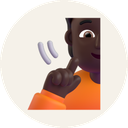
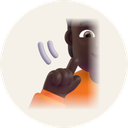
fix(profilbild): Dialog beginnt oben, keine Schnittkanten, kein lazy
Befunde aus der Abnahme von PR 458:
- Der Dialog oeffnet mit dem Fokus auf sich selbst statt auf dem gewaehlten
  Bild; auf 390 px scrollte er sonst nach unten. Tab fuehrt zum gewaehlten
  Radioknopf. Kopf und Mobil-Menue oeffnen ihn ueber profilbildDialogOeffnen.
- Die Vorlage der gehoerlosen Person ist in allen Fluent-Fassungen rechts,
  unten und oben gerade abgeschnitten; dort laeuft sie jetzt weich in den
  Sand aus. Alle Bilder bekommen eine Kreismaske, nichts ragt mehr ueber den
  Kreis (betraf ausserdem den Setzling).
- loading="lazy" entfernt: im Dialog laden ohnehin alle Bilder sofort.

Refs #437

Changed region(s): [[0.2188, 0.125, 0.8125, 0.875]]

diff --git a/mvp/frontend/gutgesagt-frontend/src/app/shared/profilbild/profilbild-dialog.component.spec.ts b/mvp/frontend/gutgesagt-frontend/src/app/shared/profilbild/profilbild-dialog.component.spec.ts
@@ -1,7 +1,7 @@
 import { ComponentFixture, TestBed } from '@angular/core/testing';
-import { MatDialogRef } from '@angular/material/dialog';
+import { MatDialog, MatDialogRef } from '@angular/material/dialog';
 import { provideNoopAnimations } from '@angular/platform-browser/animations';
-import { ProfilbildDialogComponent } from './profilbild-dialog.component';
+import { ProfilbildDialogComponent, profilbildDialogOeffnen } from './profilbild-dialog.component';
 import { INITIALEN, PROFILBILD_SCHLUESSEL, ProfilbildService } from '../../services/profilbild.service';
 
 describe('ProfilbildDialogComponent', () => {
@@ -47,7 +47,6 @@ describe('ProfilbildDialogComponent', () => {
     expect(optionen().length).toBe(service.auswahl().length);
     for (const bild of Array.from(element().querySelectorAll('.profilbild-option img'))) {
       expect(bild.getAttribute('alt')?.length).toBeGreaterThan(3);
-      expect(bild.getAttribute('loading')).toBe('lazy');
     }
   });
 
@@ -120,5 +119,53 @@ describe('ProfilbildDialogComponent', () => {
     knopf('Übernehmen')!.click();
 
     expect(service.gewaehlt()).toBe(service.auswahl()[2].id);
+  });
+});
+
+describe('ProfilbildDialogComponent beim Oeffnen (Abnahme PR 458)', () => {
+  let dialog: MatDialog;
+  let service: ProfilbildService;
+
+  beforeEach(async () => {
+    localStorage.removeItem(PROFILBILD_SCHLUESSEL);
+    await TestBed.configureTestingModule({ providers: [provideNoopAnimations()] }).compileComponents();
+    dialog = TestBed.inject(MatDialog);
+    service = TestBed.inject(ProfilbildService);
+    service.setzePerson({ isAuthenticated: true, userId: 'user-001', userName: 'Test User', claims: {} });
+    // Weit unten im Raster vorgewaehlt: frueher sprang der Dialog dorthin.
+    service.waehlen(service.auswahl()[service.auswahl().length - 1].id);
+  });
+
+  afterEach(() => {
+    dialog.closeAll();
+    localStorage.removeItem(PROFILBILD_SCHLUESSEL);
+  });
+
+  it('beginnt oben mit Ueberschrift, Initialen und Menschen, ohne zum gewaehlten Bild zu scrollen', async () => {
+    // Hoehe wie bei 390 px Breite: das Raster passt nicht ganz hinein.
+    const ref = profilbildDialogOeffnen(dialog, { height: '600px', maxHeight: '600px' });
+    await new Promise((fertig) => setTimeout(fertig, 50));
+
+    const inhalt = document.querySelector('.mat-mdc-dialog-content') as HTMLElement;
+    expect(inhalt.scrollHeight).toBeGreaterThan(inhalt.clientHeight);
+    expect(inhalt.scrollTop).toBe(0);
+
+    const fokus = document.activeElement as HTMLElement;
+    expect(fokus.closest('.profilbild-option')).toBeNull();
+    const ganzOben = inhalt.getBoundingClientRect().top;
+    const initialen = document.querySelector('.profilbild-option') as HTMLElement;
+    expect(initialen.getBoundingClientRect().top - ganzOben).toBeLessThan(150);
+    ref.close();
+  });
+
+  it('fuehrt mit Tab zum gewaehlten Bild, auch wenn es weit unten steht', async () => {
+    profilbildDialogOeffnen(dialog, { height: '600px', maxHeight: '600px' });
+    await new Promise((fertig) => setTimeout(fertig, 50));
+
+    const radios = Array.from(document.querySelectorAll('.profilbild-radio')) as HTMLInputElement[];
+    const gewaehlt = radios.find((r) => r.checked)!;
+    expect(gewaehlt).toBe(radios[radios.length - 1]);
+    // Unter den Radioknoepfen einer Gruppe ist nur der gewaehlte per Tab erreichbar.
+    expect(radios.filter((r) => r.checked).length).toBe(1);
   });
 });

diff --git a/mvp/frontend/gutgesagt-frontend/src/app/shared/profilbild/profilbild-dialog.component.ts b/mvp/frontend/gutgesagt-frontend/src/app/shared/profilbild/profilbild-dialog.component.ts
@@ -1,6 +1,6 @@
 import { Component } from '@angular/core';
 import { CommonModule } from '@angular/common';
-import { MatDialogModule, MatDialogRef } from '@angular/material/dialog';
+import { MatDialog, MatDialogConfig, MatDialogModule, MatDialogRef } from '@angular/material/dialog';
 import { MatButtonModule } from '@angular/material/button';
 import { ProfilbildService } from '../../services/profilbild.service';
 
@@ -42,4 +42,22 @@ export class ProfilbildDialogComponent {
     this.profilbild.zuruecksetzen();
     this.dialogRef.close();
   }
+}
+
+/**
+ * Oeffnet den Dialog so, wie Kopf und Mobil-Menue ihn brauchen. Der Fokus liegt
+ * zuerst auf dem Dialog selbst, nicht auf dem gewaehlten Bild: sonst scrollte der
+ * Dialog auf schmalen Bildschirmen zu ihm und Ueberschrift und Initialen waeren
+ * weg. Tab fuehrt von dort zum gewaehlten Radioknopf.
+ */
+export function profilbildDialogOeffnen(
+  dialog: MatDialog,
+  konfig: MatDialogConfig = {}
+): MatDialogRef<ProfilbildDialogComponent> {
+  return dialog.open(ProfilbildDialogComponent, {
+    width: '560px',
+    maxWidth: '95vw',
+    autoFocus: 'dialog',
+    ...konfig,
+  });
 }

diff --git a/mvp/frontend/gutgesagt-frontend/src/app/app.component.ts b/mvp/frontend/gutgesagt-frontend/src/app/app.component.ts
@@ -19,7 +19,7 @@ import { ProfilbildService } from './services/profilbild.service';
 import { MatDialog } from '@angular/material/dialog';
 import { HelpDialogComponent } from './help-dialog/help-dialog.component';
 import { FeedbackDialogComponent } from './shared/feedback/feedback-dialog.component';
-import { ProfilbildDialogComponent } from './shared/profilbild/profilbild-dialog.component';
+import { profilbildDialogOeffnen } from './shared/profilbild/profilbild-dialog.component';
 import { FooterComponent } from "./footer/footer.component";
 import { MobileMenuComponent } from './shared/components/mobile-menu/mobile-menu';
 import { MobileHeaderComponent } from './shared/components/mobile-header/mobile-header.component';
@@ -164,10 +164,7 @@ export class AppComponent implements OnInit, OnDestroy {
   }
 
   openProfilbildDialog(): void {
-    this.dialog.open(ProfilbildDialogComponent, {
-      width: '560px',
-      maxWidth: '95vw',
-    });
+    profilbildDialogOeffnen(this.dialog);
   }
 
   openFeedbackDialog(): void {

diff --git a/mvp/frontend/gutgesagt-frontend/src/app/shared/profilbild/profilbild-dialog.component.html b/mvp/frontend/gutgesagt-frontend/src/app/shared/profilbild/profilbild-dialog.component.html
@@ -10,9 +10,8 @@
              class="profilbild-radio"
              [value]="option.id"
              [checked]="option.id === ausgewaehlt"
-             [attr.cdkFocusInitial]="option.id === ausgewaehlt ? '' : null"
              (change)="ausgewaehlt = option.id" />
-      <img [src]="option.url" [alt]="option.alt" width="64" height="64" loading="lazy" decoding="async" />
+      <img [src]="option.url" [alt]="option.alt" width="64" height="64" />
     </label>
   </div>
 

diff --git a/mvp/frontend/gutgesagt-frontend/scripts/profilbilder_holen.py b/mvp/frontend/gutgesagt-frontend/scripts/profilbilder_holen.py
@@ -7,7 +7,10 @@ und eine neue Fassung von Fluent Emoji aendert die Bilder nicht unbemerkt. Die
 Lizenz steht in public/avatars/FLUENT-EMOJI-LIZENZ.txt.
 
 Jedes Bild ist ein Kreis in Sand (#F5F1E9) mit dem Emoji in der Mitte, etwa
-72 % so breit wie der Kreis, als PNG mit 128 px Kantenlaenge. Die Reihenfolge
+72 % so breit wie der Kreis, als PNG mit 128 px Kantenlaenge; was ueber den Kreis
+hinausragt, schneidet der Kreis ab. Motive, die schon in der Vorlage gerade
+abgeschnitten sind (ANGESCHNITTEN), laufen an diesen Kanten weich in den Sand aus,
+statt mit einer harten Linie zu enden. Die Reihenfolge
 und die Dateinamen muessen zu BILDER in src/app/services/profilbild.service.ts
 passen; das prueft scripts/tests/test_profilbilder.py.
 
@@ -23,7 +26,7 @@ import sys
 import urllib.parse
 import urllib.request
 
-from PIL import Image, ImageDraw
+from PIL import Image, ImageChops, ImageDraw
 
 COMMIT = "1ffb34c752ecf5d402f04cfb4b392c77f57c54bc"
 QUELLE = f"https://raw.githubusercontent.com/microsoft/fluentui-emoji/{COMMIT}/"
@@ -115,6 +118,13 @@ MOTIVE = [
 
 BILDER = MENSCHEN + MOTIVE
 
+# Die Vorlage zeigt eine Nahaufnahme, rechts, unten und oben gerade abgeschnitten; das
+# gilt fuer alle Fassungen von "deaf" in Fluent Emoji, und ein Ausschnitt durch den
+# Kreis wuerde das Gesicht treffen. Anteil des Motivs, ueber den die Kante auslaeuft:
+ANGESCHNITTEN = {"mensch-16.png"}
+AUSLAUF = 0.18
+AUSLAUF_OBEN = 0.10
+
 
 def holen(pfad: str) -> Image.Image:
     url = QUELLE + urllib.parse.quote(pfad)
@@ -129,18 +139,48 @@ def _eingepasst(groesse: tuple[int, int], seite: int) -> tuple[int, int]:
     return max(1, round(breite * faktor)), max(1, round(hoehe * faktor))
 
 
-def profilbild(emoji: Image.Image) -> Image.Image:
+def _rampe(laenge: int, auslauf: int, ab_ende: bool) -> list[int]:
+    """Deckkraft 255 im Inneren, auf den letzten (oder ersten) `auslauf` Pixeln linear auf null."""
+    werte = [255] * laenge
+    for i in range(auslauf):
+        werte[laenge - 1 - i if ab_ende else i] = round(255 * i / auslauf)
+    return werte
+
+
+def _auslaufen(emoji: Image.Image) -> Image.Image:
+    """Rechts, unten und oben laeuft das Motiv in den Grund aus; links bleibt es."""
+    breite, hoehe = emoji.size
+    rechts = _rampe(breite, max(1, round(breite * AUSLAUF)), ab_ende=True)
+    unten = _rampe(hoehe, max(1, round(hoehe * AUSLAUF)), ab_ende=True)
+    oben = _rampe(hoehe, max(1, round(hoehe * AUSLAUF_OBEN)), ab_ende=False)
+    verlauf = Image.new("L", (breite, hoehe))
+    verlauf.putdata(
+        [
+            rechts[x] * unten[y] * oben[y] // (255 * 255)
+            for y in range(hoehe)
+            for x in range(breite)
+        ]
+    )
+    emoji.putalpha(ImageChops.multiply(emoji.getchannel("A"), verlauf))
+    return emoji
+
+
+def profilbild(emoji: Image.Image, angeschnitten: bool = False) -> Image.Image:
     # Viermal so gross zeichnen und dann verkleinern: so wird der Kreisrand glatt.
     gross = KANTE * 4
-    bild = Image.new("RGBA", (gross, gross), (0, 0, 0, 0))
-    ImageDraw.Draw(bild).ellipse((0, 0, gross - 1, gross - 1), fill=SAND)
+    kreis = Image.new("L", (gross, gross), 0)
+    ImageDraw.Draw(kreis).ellipse((0, 0, gross - 1, gross - 1), fill=255)
+    bild = Image.new("RGBA", (gross, gross), SAND)
     # Die Quellbilder haben einen transparenten Rand; 72 % gelten fuer das Motiv selbst.
     emoji = emoji.crop(emoji.getchannel("A").getbbox())
     seite = round(gross * ANTEIL)
     emoji = emoji.resize(_eingepasst(emoji.size, seite), Image.Resampling.LANCZOS)
+    if angeschnitten:
+        emoji = _auslaufen(emoji)
     links = (gross - emoji.width) // 2
     oben = (gross - emoji.height) // 2
     bild.alpha_composite(emoji, (links, oben))
+    bild.putalpha(kreis)
     return bild.resize((KANTE, KANTE), Image.Resampling.LANCZOS)
 
 
@@ -149,7 +189,7 @@ def main() -> None:
     summe = 0
     for datei, pfad in BILDER:
         ziel = ZIEL / datei
-        profilbild(holen(pfad)).save(ziel, optimize=True)
+        profilbild(holen(pfad), datei in ANGESCHNITTEN).save(ziel, optimize=True)
         summe += ziel.stat().st_size
     sys.stdout.write(
         f"{len(BILDER)} Profilbilder in {ZIEL}, zusammen {summe // 1024} KiB\n"

diff --git a/scripts/tests/test_profilbilder.py b/scripts/tests/test_profilbilder.py
@@ -8,6 +8,8 @@ ohne Verwendung herum.
 import pathlib
 import re
 
+from PIL import Image
+
 WURZEL = pathlib.Path(__file__).resolve().parents[2]
 FRONTEND = WURZEL / "mvp/frontend/gutgesagt-frontend"
 SKRIPT = FRONTEND / "scripts/profilbilder_holen.py"
@@ -47,3 +49,11 @@ def test_lizenz_liegt_neben_den_bildern():
     assert "Copyright (c) Microsoft Corporation." in lizenz
     commit = re.search(r'COMMIT = "([0-9a-f]{40})"', SKRIPT.read_text()).group(1)
     assert commit in lizenz
+
+
+def test_ecken_sind_durchsichtig_nichts_ragt_ueber_den_kreis():
+    for name in _frontend():
+        with Image.open(AVATARE / name) as bild:
+            alpha = bild.convert("RGBA").getchannel("A")
+            ecken = [(0, 0), (127, 0), (0, 127), (127, 127), (8, 8), (119, 119)]
+            assert all(alpha.getpixel(e) == 0 for e in ecken), name
